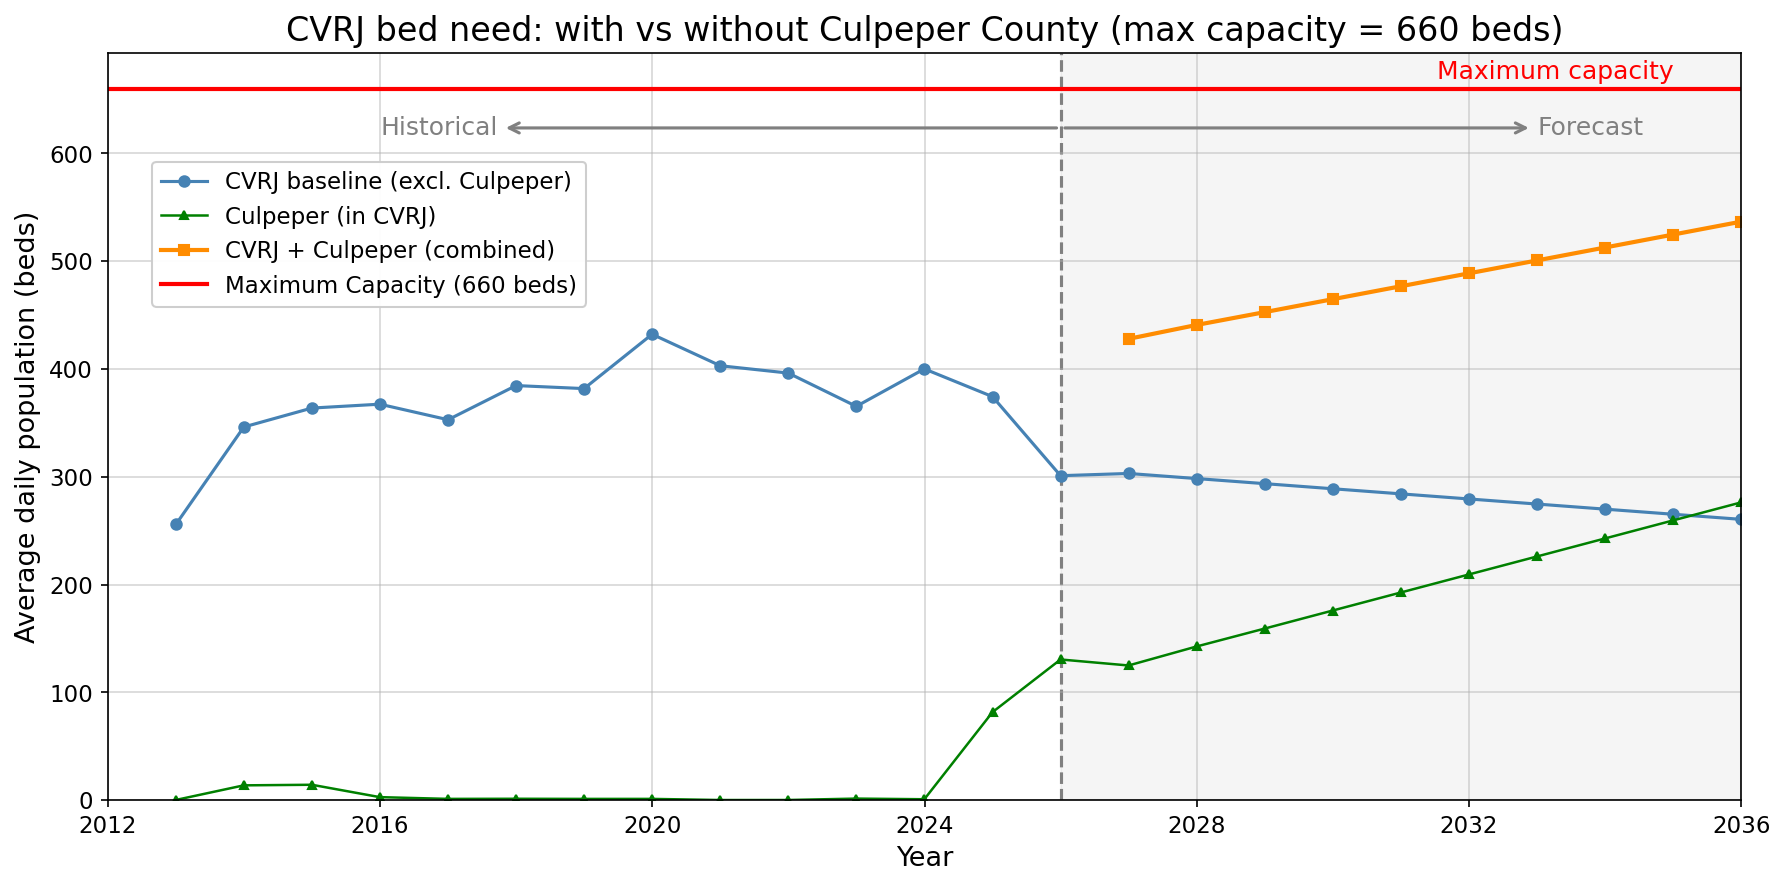
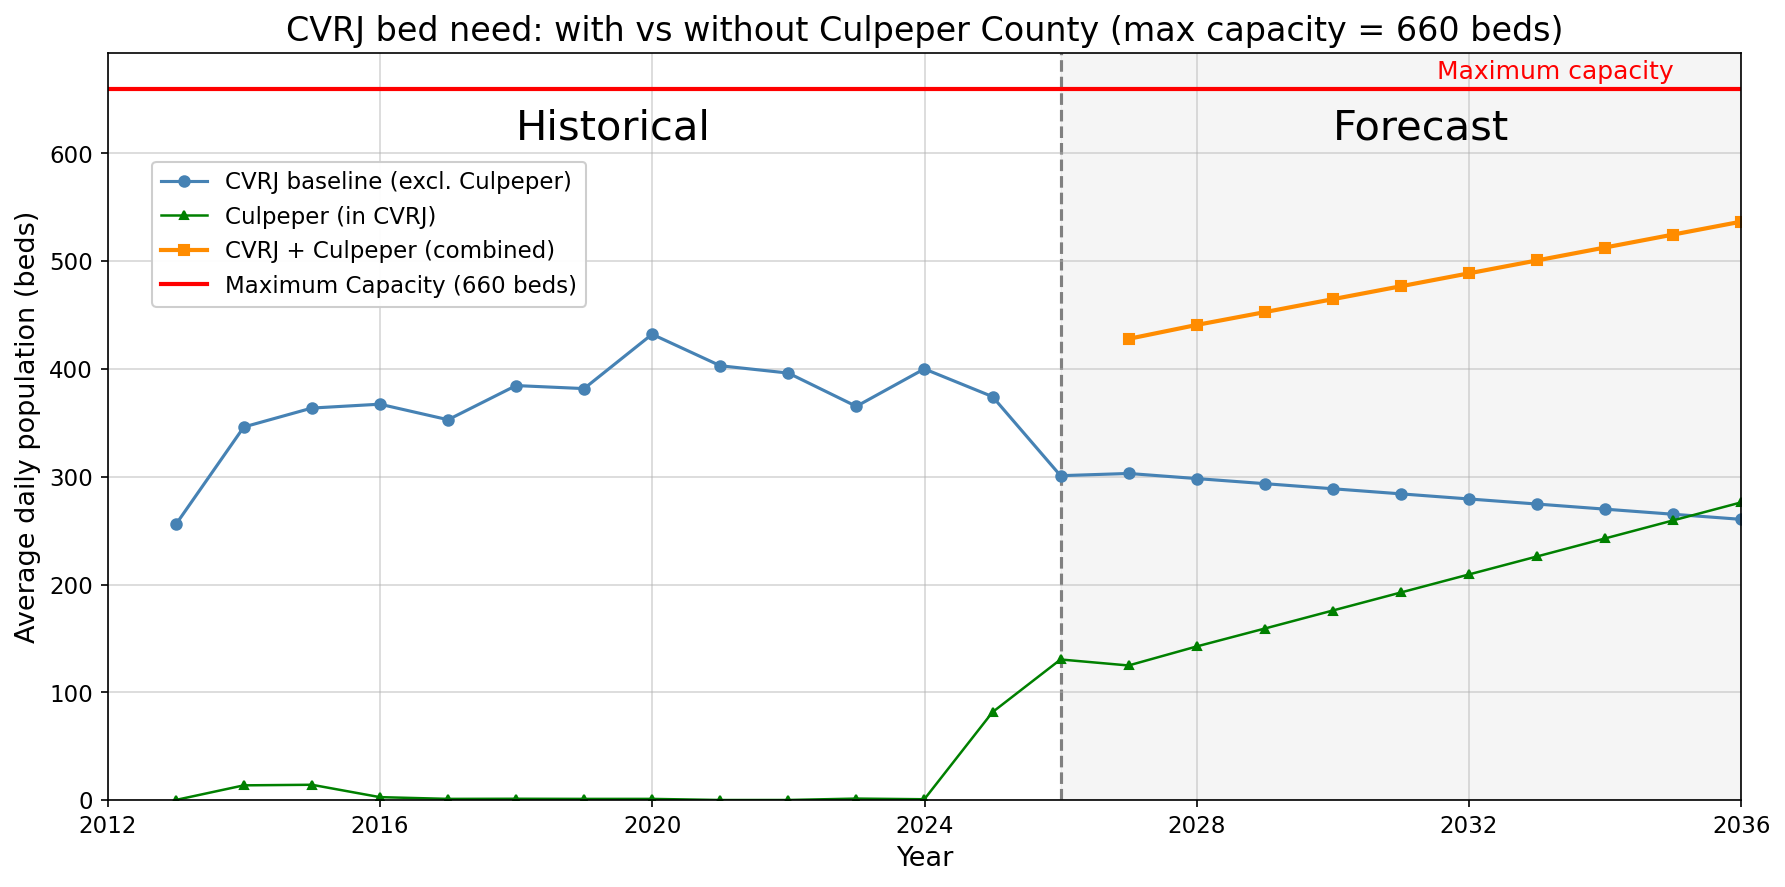
update to THE graphic

Changed region(s): [[0.2157, 0.1218, 0.9244, 0.1826]]

diff --git a/scripts/07_capacity_forecast_visualization.py b/scripts/07_capacity_forecast_visualization.py
@@ -113,23 +113,27 @@ def plot_capacity(ax, annual_cvrj_adp, years_future, cvrj_forecast_vals, combine
         ymin, ymax = ax.get_ylim()
         y_arrow = ymax * 0.90  # slightly below top
 
+        offset_forecast = pd.DateOffset(years=4)
+        offset_historical = pd.DateOffset(years=8)
+
+
         # Forecast arrow (pointing right from dashed line)
         ax.annotate('Forecast',
-                    xy=(x_forecast, y_arrow),
-                    xytext=(pd.Timestamp('2033-01-01'), y_arrow),
-                    fontsize=FONT_ANNO,
-                    ha='left', va='center',
-                    color='gray',
-                    arrowprops=dict(arrowstyle='<-', color='gray', lw=1.5))
+                   xy=(x_forecast, y_arrow),
+                   xytext=(x_forecast + offset_forecast, y_arrow),
+                   fontsize=20,
+                   ha='left', va='center',
+                   color='black')
+                   #arrowprops=dict(arrowstyle='<-', color='gray', lw=1.5))
 
         # Historical arrow (pointing left toward dashed line)
         ax.annotate('Historical',
                     xy=(x_forecast, y_arrow),
-                    xytext=(pd.Timestamp('2016-01-01'), y_arrow),
-                    fontsize=FONT_ANNO,
+                    xytext=(x_forecast - offset_historical, y_arrow),
+                    fontsize=20,
                     ha='left', va='center',
-                    color='gray',
-                    arrowprops=dict(arrowstyle='<-', color='gray', lw=1.5))
+                    color='black')
+                    #arrowprops=dict(arrowstyle='<-', color='gray', lw=1.5))
 
     ax.set_xlabel('Year', fontsize=FONT_LABEL)
     ax.set_ylabel('Average daily population (beds)', fontsize=FONT_LABEL)
